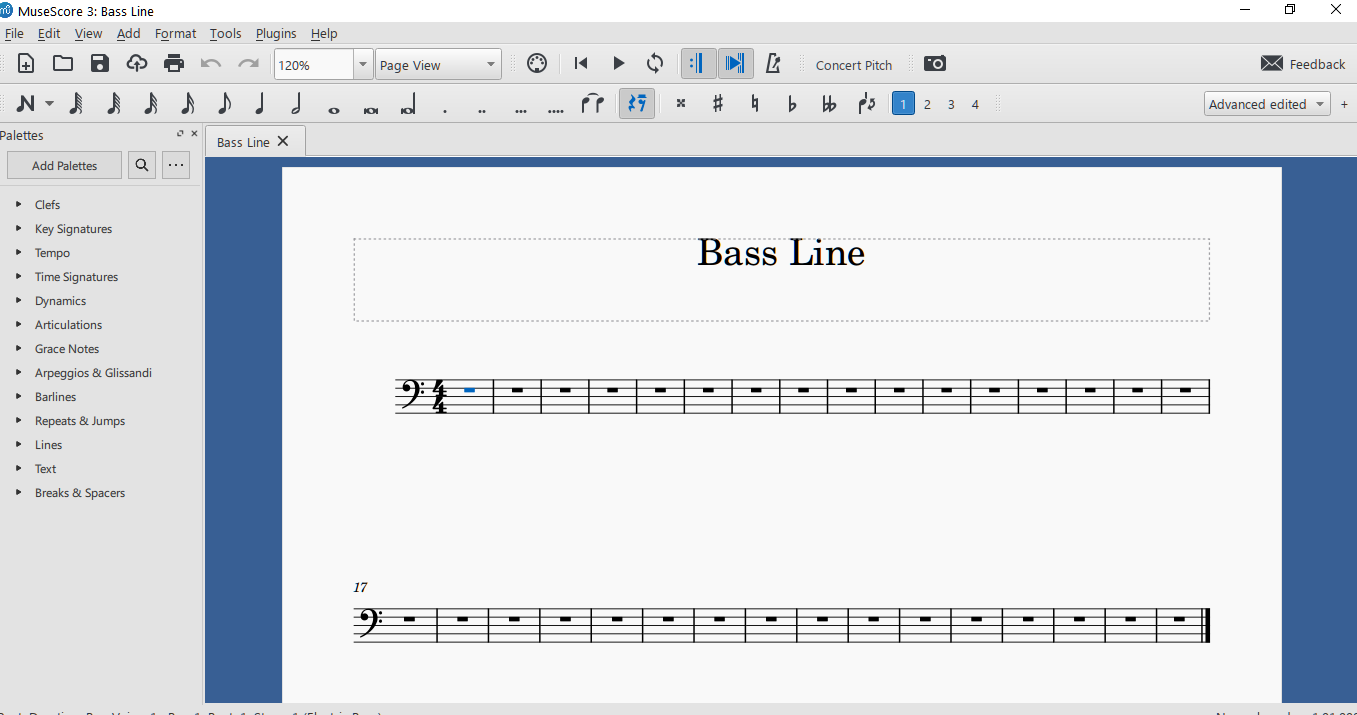
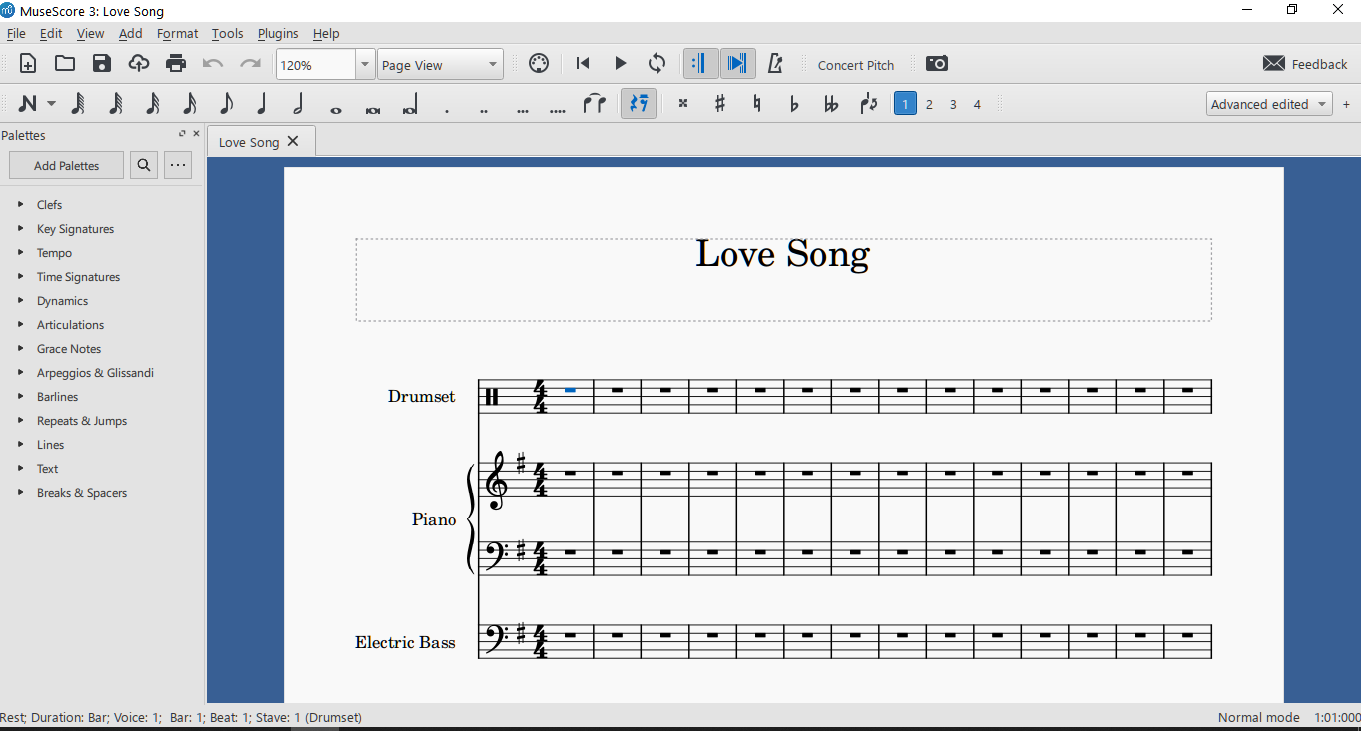
Edits

diff --git a/user-assistance/creating-a-score-file.md b/user-assistance/creating-a-score-file.md
@@ -1,38 +1,48 @@
 # Creating A Score File
 
-In order to create score files, you should have downloaded and installed the program. To create a score file&mdash;to which MuseScore gives by default the extension ".mscz"&mdash;follow the steps below.
+In order to create score files, you should have downloaded and installed the program. To create a score file, follow the steps below.
 
-1. Launch MuseScore. You should see the screen below:
-
-   ![MuseScore Screen](pictures/musescore-screen.png)
-
+1. Launch MuseScore.
 2. Create a new document by selecting _File_ > _New_ which opens the "_New Score Wizard_" you can see below:
 
    ![New Score wizard](pictures/new-score-wizard.png)
 
-   Here you can enter a title for the document&mdash;here, our title is simply "Bass Line"&mdash;after which you click _Next_.
+   Here you can enter a title for the document&mdash;here, our title is simply "Love Song"&mdash;after which you click _Next_.
 
-3. In the next screen, when you click on _Choose Instruments_ a list of instruments will appear. Here, expand the _Strings - Plucked_ branch and select _Electric Bass_:
+3. In the next screen, double click on _Choose Instruments_.
 
-   ![Select instruments](pictures/select-electric-bass.png)
+   ![Choose instruments](pictures/choose-instruments.png)
 
-   Once you've selected it, you can either double click it or click the _Add to score_ button to add the instrument to the right pane.
+4. A list of instruments will appear. Here, expand the _Keyboards_ branch and select _Piano_.   Once you've selected it, you can either double click the instrument's name or click the _Add to score_ button to add the instrument to the right pane.
 
-   ![Add the instruments to the score](pictures/add-bass-to-score.png)
+   ![Add keyboards to instruments](pictures/keyboards-piano.png)
 
-4. After this you can click _Next_ again to move to the screen where you can pick a key signature:
+   Then do the same for _Electric Bass_ and _Drums_. Once these are also added, the right-hand pane should look like this:
+
+   ![Selected instruments](pictures/selected-instruments.png)
+
+   Click _Next_ again.
+
+5. One the next screen, you can pick a key signature:
 
    ![Choose key signature](pictures/choose-key-signature.png)
 
-   Here, we will pick the single-sharp (#) _E minor_ as our key and click _Next_. We arrive at the final screen where we can pick a time signature, number of bars, and tempo. We will pick the defaults and click _Finish_ to complete the wizard:
+   Here, we will pick the single-sharp (#) _E minor_ as our key and click _Next_.
+
+6. We have arrived at the final screen of the wizard where we can pick a time signature, number of bars, and tempo.
 
    ![Chose time signature and tempo](pictures/choose-time-signature-and-tempo.png)
 
-5. After the wizard closes, the score should look like this:
+   Pick the defaults and click _Finish_ to complete the wizard:
+
+7. After the wizard closes, the score should look like this:
 
    ![Created score](pictures/created-score.png)
 
-Don't forget to click _File_ > _Save_ to save your newly created score. MuseScore will provide a default filename based on the title of the score, replacing spaces with underscores&mdash;in our case, that will be "Bass_Line".
-
 > __NOTE__
 > If you are not happy with the page size, this can be changed by going to _Format_ > _Page Settings_ and picking the desired page size from the _Page Size_ drop down box.
+
+Don't forget to click _File_ > _Save_ to save your newly created score. MuseScore will suggest a filename based on the title of the score, replacing spaces with underscores&mdash;in our case, that will be "Love_Song".
+
+> __WARNING__
+> By default, MuseScore files have the __.mscz__ extension. Although this is actually a __zip__ file, it should not be modified as MuseScore will not recognize any other extension.

diff --git a/user-assistance/creating-a-music-part.md b/user-assistance/creating-a-music-part.md
@@ -6,7 +6,7 @@ In this topic, we will show you how to enter a music part in a MuseScore documen
 
 For creating the score file in which you will enter the part, see [Creating A Score File](creating-a-score-file.md).
 
-## Entering the notes
+## Entering notes
 
 We will assume you will enter the notes using your mouse and keyboard.
 
@@ -18,11 +18,11 @@ For our purposes, the first option&mdash;_Note Input_&mdash;is good enough. Note
 
 ![Activate note entry](pictures/activate-note-entry.png)
 
-## The onscreen keyboard
+## Onscreen keyboard
 
 If entering the notes by typing their letters on the keyboard is not intuitive enough for you, you can try a more __visual__ method: using the onscreen keyboard. Typing _P_ on the keyboard opens a piano keyboard at the bottom of the score screen.
 
-> __WARNING__
+> __NOTE__
 > This topic does not show the MIDI-based method of using an external keyboard&mdash;such as a synthesizer&mdash;for note entry.
 
 ![Onscreen keyboard](pictures/onscreen-keyboard.png)
